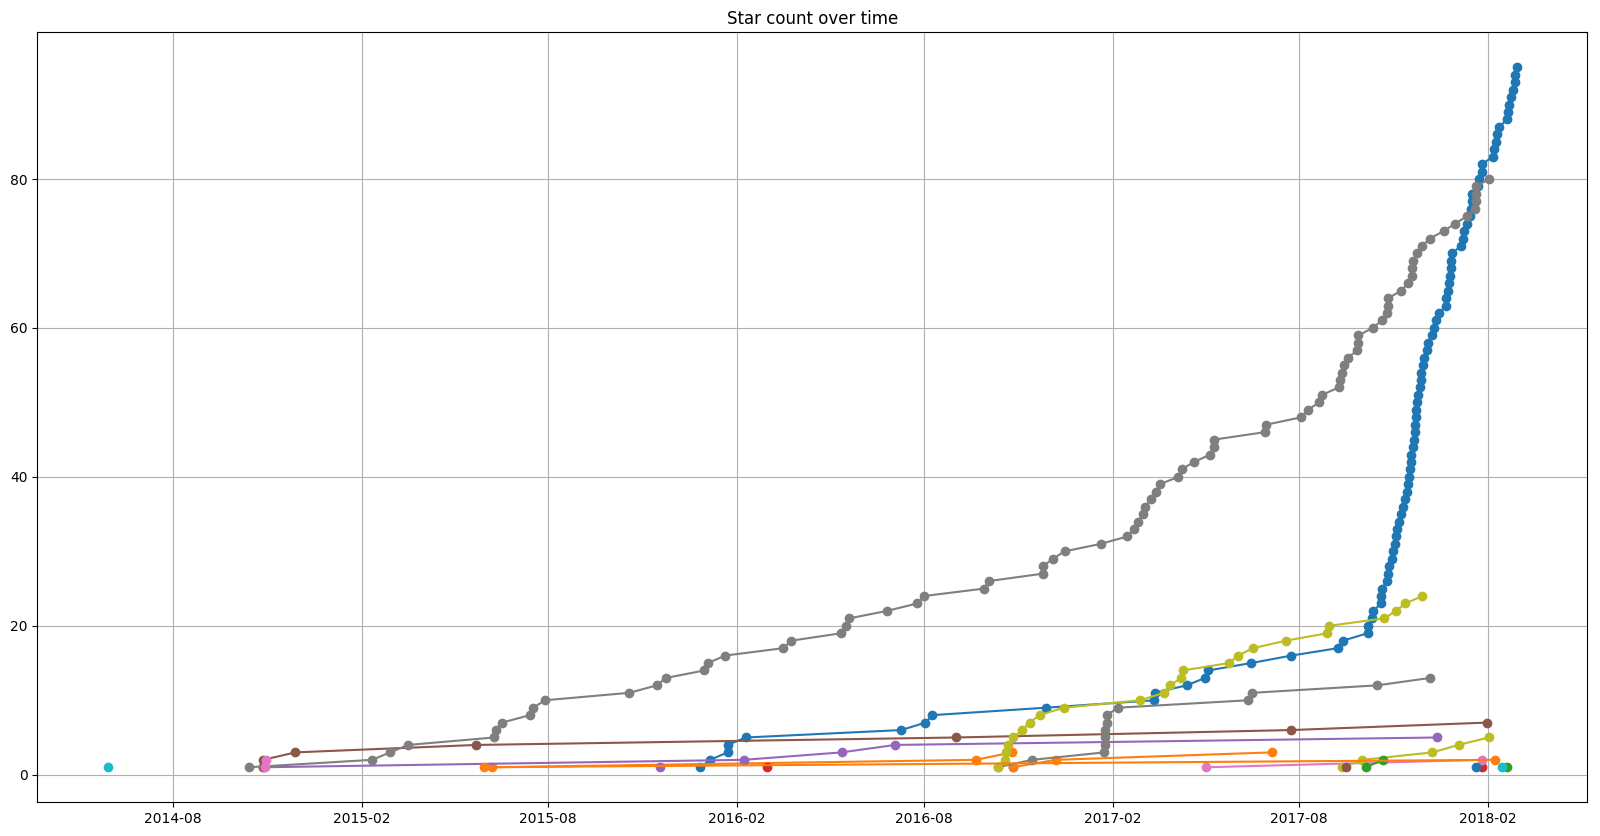
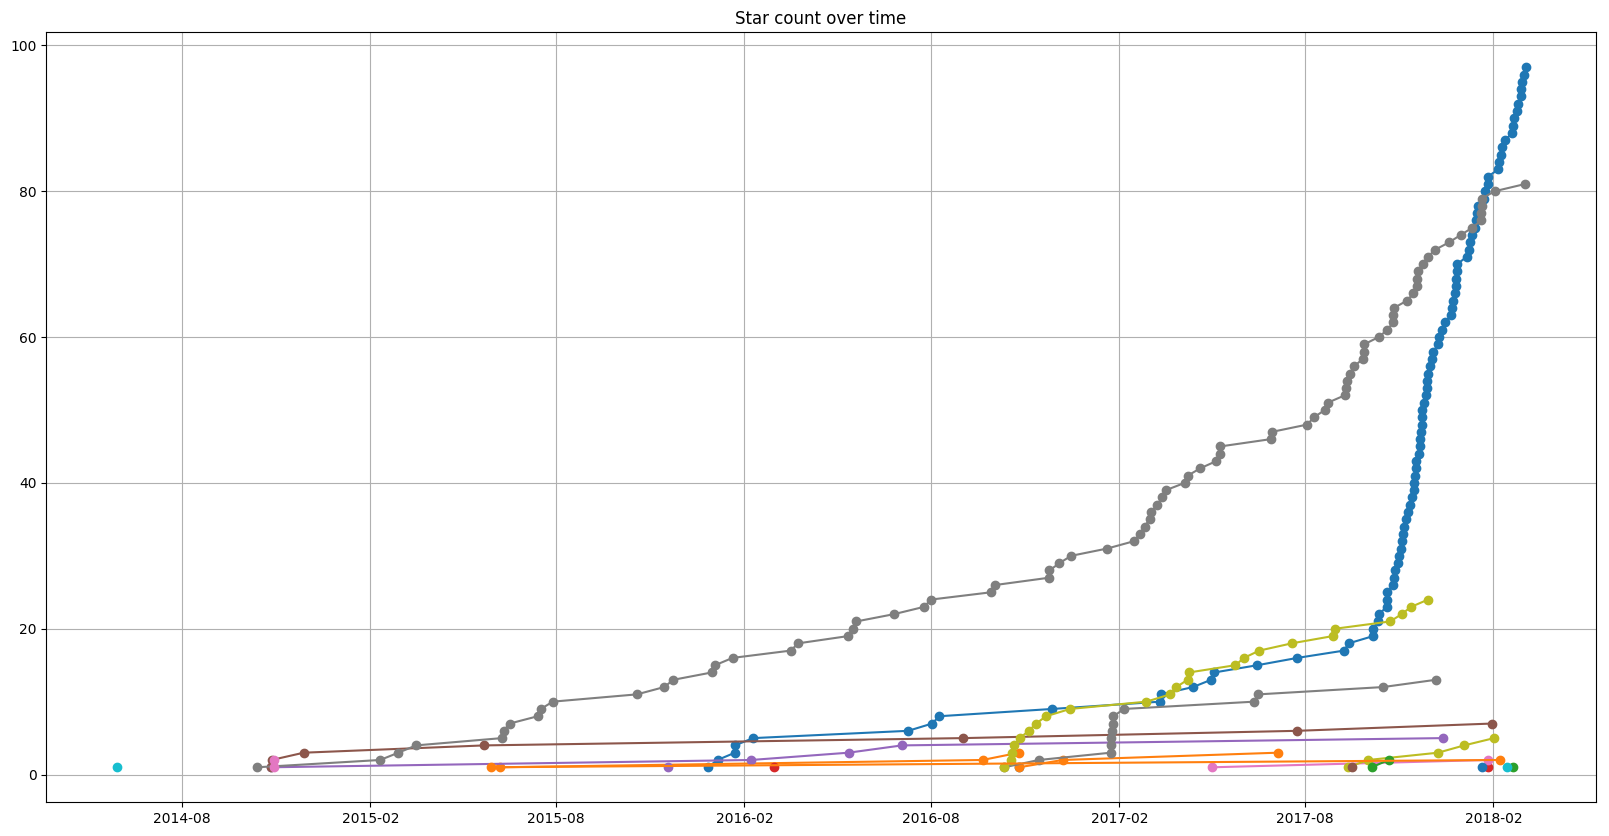
update

diff --git a/README.md b/README.md
@@ -3,7 +3,7 @@
 
 ![star plot](https://raw.github.com/FabriceSalvaire/github-map/master/star-plots/all.png)
 
-Overall stars: 252 :star:
+Overall stars: 255 :star:
 
 ## Python Packages
 
@@ -39,11 +39,11 @@ Overall stars: 252 :star:
 
 ## Python Tools for Developers
 
-* [CodeReview](https://github.com/FabriceSalvaire/CodeReview) 95 :star:</br>
+* [CodeReview](https://github.com/FabriceSalvaire/CodeReview) 97 :star:</br>
 
    CodeReview is a Git GUI tool to perform code review (Diff Viewer) written in Python3 and Qt5.
 
-   Updated on 2018-03-01
+   Updated on 2018-03-07
 
 * [github-map](https://github.com/FabriceSalvaire/github-map)
 
@@ -169,11 +169,11 @@ Overall stars: 252 :star:
 
 ## Python for Electronic
 
-* [PySpice](https://github.com/FabriceSalvaire/PySpice) 80 :star:</br>
+* [PySpice](https://github.com/FabriceSalvaire/PySpice) 81 :star:</br>
 
    Simulate electronic circuit using Python and the Ngspice / Xyce simulators
 
-   Updated on 2018-02-02
+   Updated on 2018-03-04
 
 * [PyResistorColorCode](https://github.com/FabriceSalvaire/PyResistorColorCode) 2 :star:</br>
 
@@ -259,7 +259,7 @@ Overall stars: 252 :star:
 
    An experimental PDF document manager. 
 
-   Updated on 2017-11-21
+   Updated on 2018-03-05
 
 * [elbrea](https://github.com/FabriceSalvaire/elbrea)
 
